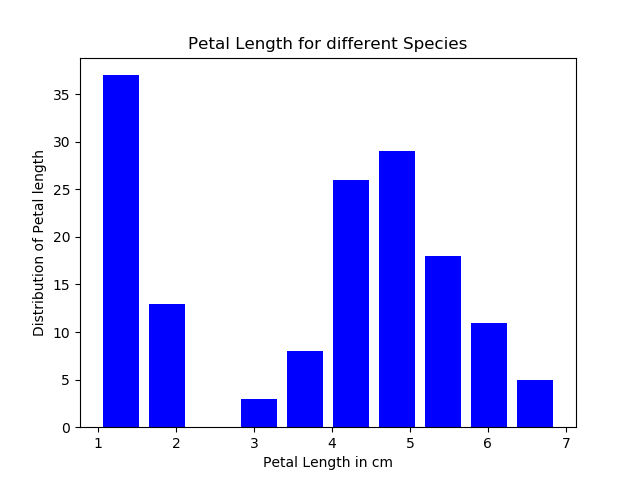
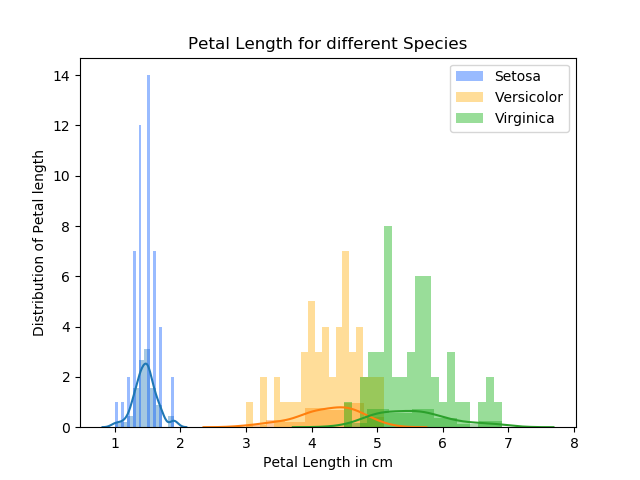
Project Files

diff --git a/Analyse.py b/Analyse.py
@@ -4,7 +4,6 @@
 # Import Libraries
 import pandas as pd
 import matplotlib.pyplot as plt
-import numpy as np
 import seaborn as sns
 
 # Import the Fisher's Iris data set form the Internet
@@ -16,262 +15,179 @@ df.to_csv(r'Fishers_Iris_Dataset.csv', mode ='w', index = False, header = True)
 
 # Save the data in a Text file and removing the index in the dataframe
 # found this code on the website "https://stackoverflow.com/questions/48432326/remove-index-dataframe-pandas"
-with open('Fishers_Iris_Dataset.txt', 'w') as textfile:
-    textfile.write(df.to_string(index = False))
+with open('Fishers_Iris_Dataset.txt', mode = 'w', newline = '') as textfile:
+    textfile.write(df.to_string(index = False, header = True))
     textfile.close()
 
+# Slice the pandas data set df in the three species "Setosa", "Versicolor" and "Virginica"
+# found on website https://datacarpentry.org/python-ecology-lesson/03-index-slice-subset/
+# Slice the dataframe for Iris Flower Setosa
+setosa = df[0:50]
+
+# Slice the dataframe for Iris Flower Versicolor
+versicolor= df[50:100]
+
+# Slice the dataframe for Iris Flower Viginica
+virginica= df[100:150]
+
 # research for plotting on website "https://matplotlib.org/examples/showcase/anatomy.html", https://pandas.pydata.org/ and 
-# https://matplotlib.org/3.2.0/api/_as_gen/matplotlib.pyplot.hist.html
+# https://seaborn.pydata.org/tutorial/distributions.html
 # Histogram plot for Sepal Length
-plt.hist(df['sepal_length'], histtype = 'bar',rwidth = 0.8,color= '#0000FF')
+sns.distplot(setosa["sepal_length"])
+sns.distplot(setosa["sepal_length"],bins=20, kde=False, color='#0055FF', label='Setosa')
+sns.distplot(versicolor["sepal_length"])
+sns.distplot(versicolor["sepal_length"],bins=20, kde=False,color= '#FFAA00', label='Versicolor')
+sns.distplot(virginica["sepal_length"])
+sns.distplot(virginica["sepal_length"],bins=20, kde=False,color= '#00AA00', label='Virginica')
+plt.legend()
 plt.title("Sepal Length for different Species")
-plt.xlabel("Sepal Length in cm")
+plt.xlabel("Sepal Length")
 plt.ylabel("Distribution of Sepal length")
 plt.savefig("Hist Sepal length.png")
-plt.show()
+
 
 # Histogram plot for Sepal Width
-plt.hist(df['sepal_width'], histtype = 'bar',rwidth = 0.8,color= '#0000FF')
+sns.distplot(setosa["sepal_width"])
+sns.distplot(setosa["sepal_width"],bins=20, kde=False, color='#0055FF', label='Setosa')
+sns.distplot(versicolor["sepal_width"])
+sns.distplot(versicolor["sepal_width"],bins=20, kde=False,color= '#FFAA00', label='Versicolor')
+sns.distplot(virginica["sepal_width"])
+sns.distplot(virginica["sepal_width"],bins=20, kde=False,color= '#00AA00', label='Virginica')
+plt.legend()
 plt.title("Sepal Width for different Species")
-plt.xlabel("Sepal Width in cm")
-plt.ylabel("Distribution of Sepal Width")
+plt.xlabel("Sepal Width")
+plt.ylabel("Distribution of Sepal width")
 plt.savefig("Hist Sepal width.png")
-plt.show()
+
 
 # Histogram plot for Petal Length
-plt.hist(df['petal_length'], histtype = 'bar',rwidth = 0.8,color= '#0000FF')
+sns.distplot(setosa["petal_length"])
+sns.distplot(setosa["petal_length"],bins=20, kde=False, color='#0055FF', label='Setosa')
+sns.distplot(versicolor["petal_length"])
+sns.distplot(versicolor["petal_length"],bins=20, kde=False,color= '#FFAA00', label='Versicolor')
+sns.distplot(virginica["petal_length"])
+sns.distplot(virginica["petal_length"],bins=20, kde=False,color= '#00AA00', label='Virginica')
+plt.legend()
 plt.title("Petal Length for different Species")
-plt.xlabel("Petal Length in cm")
+plt.xlabel("Petal Length")
 plt.ylabel("Distribution of Petal length")
 plt.savefig("Hist Petal length.png")
-plt.show()
+
 
 # Histogram plot for Petal Width
-plt.hist(df['petal_width'], histtype = 'bar',rwidth = 0.8,color= '#0000FF')
+sns.distplot(setosa["petal_width"])
+sns.distplot(setosa["petal_width"],bins=20, kde=False, color='#0055FF', label='Setosa')
+sns.distplot(versicolor["petal_width"])
+sns.distplot(versicolor["petal_width"],bins=20, kde=False,color= '#FFAA00', label='Versicolor')
+sns.distplot(virginica["petal_width"])
+sns.distplot(virginica["petal_width"],bins=20, kde=False,color= '#00AA00', label='Virginica')
+plt.legend()
 plt.title("Petal Width for different Species")
-plt.xlabel("Petal Width in cm")
-plt.ylabel("Distribution of Petal Width")
+plt.xlabel("Petal Width")
+plt.ylabel("Distribution of Petal width")
 plt.savefig("Hist Petal width.png")
-plt.show()
 
+
+# found things on website "https://towardsdatascience.com/data-visualization-using-seaborn-fc24db95a850"
 # Scatter plot for Sepal length vs Sepal width
 sns.scatterplot(x='sepal_length', y='sepal_width', data=df, hue='species')
-plt.title("Sepal Length vs Sepal Width")
-plt.xlabel("Sepal Length in cm")
-plt.ylabel("Sepal Width in cm")
-plt.savefig("Scatter Sepal length vs Sepal width.png")
-plt.show()
+plt.title("Sepal Length vs Sepal Width") 
+plt.xlabel("Sepal Length") 
+plt.ylabel("Sepal Width") 
+plt.savefig("Scatter Sepal length vs Sepal width.png") 
+ 
 
 # Scatter plot for Sepal length vs Petal length
 sns.scatterplot(x='sepal_length', y='petal_length', data=df, hue='species')
 plt.title("Sepal Length vs Petal Length")
-plt.xlabel("Sepal Length in cm")
-plt.ylabel("Petal Length in cm")
+plt.xlabel("Sepal Length")
+plt.ylabel("Petal Length")
 plt.savefig("Scatter Sepal length vs Petal length.png")
-plt.show()
+
 
 # Scatter plot for Sepal length vs Petal width
 sns.scatterplot(x='sepal_length', y='petal_width', data=df, hue='species')
 plt.title("Sepal Length vs Petal Width")
-plt.xlabel("Sepal Length in cm")
-plt.ylabel("Petal Width in cm")
+plt.xlabel("Sepal Length")
+plt.ylabel("Petal Width")
 plt.savefig("Scatter Sepal length vs Petal width.png")
-plt.show()
+
 
 # Scatter plot for Sepal width vs Petal length
 sns.scatterplot(x='sepal_width', y='petal_length', data=df, hue='species')
 plt.title("Sepal Width vs Petal Length")
-plt.xlabel("Sepal Width in cm")
-plt.ylabel("Petal Length in cm")
+plt.xlabel("Sepal Width")
+plt.ylabel("Petal Length")
 plt.savefig("Scatter Sepal width vs Petal length.png")
-plt.show()
+
 
 # Scatter plot for Sepal width vs Petal width
 sns.scatterplot(x='sepal_width', y='petal_width', data=df, hue='species')
 plt.title("Sepal Width vs Petal Width")
-plt.xlabel("Sepal Width in cm")
-plt.ylabel("Petal Width in cm")
+plt.xlabel("Sepal Width")
+plt.ylabel("Petal Width")
 plt.savefig("Scatter Sepal width vs Petal width.png")
-plt.show()
+
 
 # Scatter plot for Petal length vs Petal width
 sns.scatterplot(x='petal_length', y='petal_width', data=df, hue='species')
 plt.title("Petal Length vs Petal Width")
-plt.xlabel("Petal Length in cm")
-plt.ylabel("Petal Width in cm")
+plt.xlabel("Petal Length")
+plt.ylabel("Petal Width")
 plt.savefig("Scatter Petal length vs Petal width.png")
-plt.show()
+
 
 
 # Scatter plot for Sepal length for every species
 sns.scatterplot(x='sepal_length', y='species', data=df, hue='species')
-plt.title("Sepal Length for different Species")
-plt.xlabel("Sepal Length in cm")
-plt.ylabel("Species",fontsize = 12, position = (0,1.01), color = "#0000FF", rotation = 0,)
-plt.savefig("Sepal length vs Species.png")
-plt.show()
+plt.title("Sepal Length for different Species") 
+plt.xlabel("Sepal Length") 
+plt.ylabel("Species",fontsize = 12, position = (0,1.01), color = "#0000FF", rotation = 0,) 
+plt.savefig("Sepal length vs Species.png") 
+ 
 
 # Scatter plot for Sepal width for every species
 sns.scatterplot(x='sepal_width', y='species', data=df, hue='species')
 plt.title("Sepal Width for different Species")
-plt.xlabel("Sepal Width in cm")
+plt.xlabel("Sepal Width")
 plt.ylabel("Species",fontsize = 12, position = (0,1.01), color = "#0000FF", rotation = 0,)
 plt.savefig("Sepal width vs Species.png")
-plt.show()
+
 
 # Scatter plot for Petal length for every species
 sns.scatterplot(x='petal_length', y='species', data=df, hue='species')
 plt.title("Petal Length for different Species")
-plt.xlabel("Petal Length in cm")
+plt.xlabel("Petal Length")
 plt.ylabel("Species",fontsize = 12, position = (0,1.01), color = "#0000FF", rotation = 0,)
 plt.savefig("Petal length vs Species.png")
-plt.show()
+
 
 # Scatter plot for Petal width for every species
 sns.scatterplot(x='petal_width', y='species', data=df, hue='species')
 plt.title("Petal Width for different Species")
-plt.xlabel("Petal Width in cm")
+plt.xlabel("Petal Width")
 plt.ylabel("Species",fontsize = 12, position = (0,1.01), color = "#0000FF", rotation = 0,)
 plt.savefig("Petal width vs Species.png")
-plt.show()
 
 
-# Summery of each variable into a text file "Summery"
-summery = []
-summery = df.describe()
-print(summery)
+# Create three new dataframes "setosastats", "versicolorstats" and "virginicastats" for the Iris Flower statistics
+setosastats = setosa.describe()
+versicolorstats = versicolor.describe()
+virginicastats = virginica.describe()
 
-print(summery['petal_length'])
-sepallengthsummery = (summery['sepal_length'])
-sepalwidthsummery = (summery['sepal_width'])
-petallengthsummery = (summery['petal_length'])
-petalwidthsummery = (summery['petal_width'])
+# Writing the Project summery statistics for each Iris Flower in a txt file
+with open('Projectsummery.txt', mode ='w') as textfile:
+    textfile.write("Project Summery Setosa")
+    textfile.write("\n")
+    textfile.write(setosastats.to_string(index = True, header = True))
+    textfile.write("\n\n")
+    textfile.write("Project Summery Versicolor")
+    textfile.write("\n")
+    textfile.write(versicolorstats.to_string(index = True, header= True))
+    textfile.write("\n\n")
+    textfile.write("Project Summery Virginica")
+    textfile.write("\n")
+    textfile.write(virginicastats.to_string(index = True, header= True))
+    textfile.close()
 
-summerydic = {}
-summerydic = df.describe()
-print(summerydic)
-
-with open("Summery.txt", mode = 'w', newline ='') as writeon: 
-    # Sepal Length 
-    writeon.write("stats") 
-    writeon.write("\t") 
-    writeon.write("Sepal Length")
-    writeon.write("\n")
-    writeon.write("\t")     
-    for line in sepallengthsummery:
-        writeon.writelines(str(line))
-        writeon.write("\n")
-        writeon.write("\t")
-    writeon.write("\n") 
-    # Sepal Width
-    writeon.write("stats") 
-    writeon.write("\t") 
-    writeon.write("Sepal Width")
-    writeon.write("\n")
-    writeon.write("\t")     
-    for line in sepalwidthsummery:
-        writeon.writelines(str(line))
-        writeon.write("\n")
-        writeon.write("\t")
-    writeon.write("\n") 
-    # Petal Length 
-    writeon.write("stats") 
-    writeon.write("\t") 
-    writeon.write("Petal Length")
-    writeon.write("\n")
-    writeon.write("\t")     
-    for line in petallengthsummery:
-        writeon.writelines(str(line))
-        writeon.write("\n")
-        writeon.write("\t")
-    writeon.write("\n") 
-    # Petal Width
-    writeon.write("stats") 
-    writeon.write("\t") 
-    writeon.write("Petal Width")
-    writeon.write("\n")
-    writeon.write("\t")     
-    for line in petalwidthsummery:
-        writeon.writelines(str(line))
-        writeon.write("\n")
-        writeon.write("\t")
-    writeon.write("\n") 
-
-
-# working until here
-
-#sepaldescr = df.describe(include=['object'])
-#print(sepaldescr.values)
-#print(sepaldescr)
-#working until here
-
-#np.savetxt('Project Summery.tx',df.describe,fmt='%d',delimiter="\t",header="\tsepal_length\tsepal_width\tpetal_length\tpetal_width")
-#np.savetxt('Project Summery.txt',df.values,fmt='%d',delimiter="\t",header="\tsepal_length\tsepal_width\tpetal_length\tpetal_width")
-
-
-
-with open("Project Summery.txt", mode = 'w', newline ='') as writein:  
-    writein.write("stats") 
-    writein.write("\t")     
-    for line in summery:
-        writein.write(str(line))
-        writein.write("\t")
-    writein.write("\n") 
-
-    writein.write("count") 
-    writein.write("\t")  
-    for count in df.count():        
-        writein.write(str(count))
-        writein.write("\t")  
-    writein.write("\n")
-
-    writein.write("mean") 
-    writein.write("\t")  
-    for mean in df.mean():        
-        writein.write(str(mean))
-        writein.write("\t")  
-    writein.write("\n")
-
-    writein.write("std") 
-    writein.write("\t")  
-    for std in df.std():        
-        writein.write(str(std))
-        writein.write("\t")  
-    writein.write("\n")
-
-    writein.write("min") 
-    writein.write("\t")  
-    for minimum in df.min():        
-        writein.write(str(minimum))
-        writein.write("\t")  
-    writein.write("\n")
-
-# 25%,50%,75%
-
-    writein.write("max") 
-    writein.write("\t")  
-    for maximum in df.max():        
-        writein.write(str(maximum))
-        writein.write("\t")  
-    writein.write("\n")
-
-
-
-
-# write the project Summery in a Text file
-#import csv
-#from itertools import zip_longest
-#d=[summery]
-#export_data = zip_longest(*d, fillvalue ='')
-#with open ("Project Summery.txt", mode = 'w',newline ='') as SummeryFile:
-    #filewriter = csv.writer(SummeryFile, delimiter = '\t',quotechar = '"')
-    #filewriter.writerow(("sepal_length","sepal_width","petal_length","petal_width"))
-    #filewriter.writerows(export_data)
-    #SummeryFile.close()
-      
-
-# Seaborn
-
-
-print("Finshed")
 
